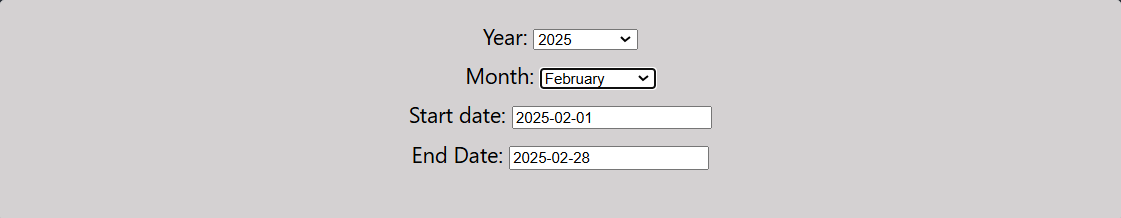
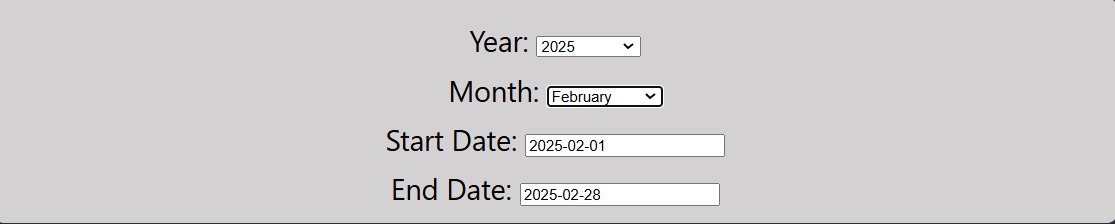
updated sample images in public

Changed region(s): [[0.3354, 0.3028, 0.6709, 0.9358], [0.0, 0.9908, 1.0, 1.0], [0.3964, 0.1101, 0.5794, 0.2752]]

diff --git a/dist/index.js b/dist/index.js
@@ -1,2 +1,2 @@
 /*! For license information please see index.js.LICENSE.txt */
-!function(e,t){"object"==typeof exports&&"object"==typeof module?module.exports=t(require("react")):"function"==typeof define&&define.amd?define(["react"],t):"object"==typeof exports?exports.DateRangeOnSelectYearMonthPicker=t(require("react")):e.DateRangeOnSelectYearMonthPicker=t(e.react)}(this,(e=>(()=>{var t={590:(e,t,r)=>{"use strict";r.d(t,{A:()=>l});var n=r(601),a=r.n(n),o=r(314),s=r.n(o)()(a());s.push([e.id,".reportInput_container{\n    background: #faf5f5d1;\n    box-sizing: border-box;\n    padding: 20px 0;\n    border-radius: 10px;\n    border: 1px solid rgb(211, 211, 211);\n    margin: 20px;\n    height: 200px;\n    width: 1000px; \n  }\n  \n  .mt{\n    margin-top: 10px;\n  }",""]);const l=s},314:e=>{"use strict";e.exports=function(e){var t=[];return t.toString=function(){return this.map((function(t){var r="",n=void 0!==t[5];return t[4]&&(r+="@supports (".concat(t[4],") {")),t[2]&&(r+="@media ".concat(t[2]," {")),n&&(r+="@layer".concat(t[5].length>0?" ".concat(t[5]):""," {")),r+=e(t),n&&(r+="}"),t[2]&&(r+="}"),t[4]&&(r+="}"),r})).join("")},t.i=function(e,r,n,a,o){"string"==typeof e&&(e=[[null,e,void 0]]);var s={};if(n)for(var l=0;l<this.length;l++){var c=this[l][0];null!=c&&(s[c]=!0)}for(var i=0;i<e.length;i++){var u=[].concat(e[i]);n&&s[u[0]]||(void 0!==o&&(void 0===u[5]||(u[1]="@layer".concat(u[5].length>0?" ".concat(u[5]):""," {").concat(u[1],"}")),u[5]=o),r&&(u[2]?(u[1]="@media ".concat(u[2]," {").concat(u[1],"}"),u[2]=r):u[2]=r),a&&(u[4]?(u[1]="@supports (".concat(u[4],") {").concat(u[1],"}"),u[4]=a):u[4]="".concat(a)),t.push(u))}},t}},601:e=>{"use strict";e.exports=function(e){return e[1]}},694:(e,t,r)=>{"use strict";var n=r(925);function a(){}function o(){}o.resetWarningCache=a,e.exports=function(){function e(e,t,r,a,o,s){if(s!==n){var l=new Error("Calling PropTypes validators directly is not supported by the `prop-types` package. Use PropTypes.checkPropTypes() to call them. Read more at http://fb.me/use-check-prop-types");throw l.name="Invariant Violation",l}}function t(){return e}e.isRequired=e;var r={array:e,bigint:e,bool:e,func:e,number:e,object:e,string:e,symbol:e,any:e,arrayOf:t,element:e,elementType:e,instanceOf:t,node:e,objectOf:t,oneOf:t,oneOfType:t,shape:t,exact:t,checkPropTypes:o,resetWarningCache:a};return r.PropTypes=r,r}},556:(e,t,r)=>{e.exports=r(694)()},925:e=>{"use strict";e.exports="SECRET_DO_NOT_PASS_THIS_OR_YOU_WILL_BE_FIRED"},20:(e,t,r)=>{"use strict";var n=r(155),a=Symbol.for("react.element"),o=Symbol.for("react.fragment"),s=Object.prototype.hasOwnProperty,l=n.__SECRET_INTERNALS_DO_NOT_USE_OR_YOU_WILL_BE_FIRED.ReactCurrentOwner,c={key:!0,ref:!0,__self:!0,__source:!0};function i(e,t,r){var n,o={},i=null,u=null;for(n in void 0!==r&&(i=""+r),void 0!==t.key&&(i=""+t.key),void 0!==t.ref&&(u=t.ref),t)s.call(t,n)&&!c.hasOwnProperty(n)&&(o[n]=t[n]);if(e&&e.defaultProps)for(n in t=e.defaultProps)void 0===o[n]&&(o[n]=t[n]);return{$$typeof:a,type:e,key:i,ref:u,props:o,_owner:l.current}}t.Fragment=o,t.jsx=i,t.jsxs=i},848:(e,t,r)=>{"use strict";e.exports=r(20)},72:e=>{"use strict";var t=[];function r(e){for(var r=-1,n=0;n<t.length;n++)if(t[n].identifier===e){r=n;break}return r}function n(e,n){for(var o={},s=[],l=0;l<e.length;l++){var c=e[l],i=n.base?c[0]+n.base:c[0],u=o[i]||0,d="".concat(i," ").concat(u);o[i]=u+1;var p=r(d),f={css:c[1],media:c[2],sourceMap:c[3],supports:c[4],layer:c[5]};if(-1!==p)t[p].references++,t[p].updater(f);else{var m=a(f,n);n.byIndex=l,t.splice(l,0,{identifier:d,updater:m,references:1})}s.push(d)}return s}function a(e,t){var r=t.domAPI(t);return r.update(e),function(t){if(t){if(t.css===e.css&&t.media===e.media&&t.sourceMap===e.sourceMap&&t.supports===e.supports&&t.layer===e.layer)return;r.update(e=t)}else r.remove()}}e.exports=function(e,a){var o=n(e=e||[],a=a||{});return function(e){e=e||[];for(var s=0;s<o.length;s++){var l=r(o[s]);t[l].references--}for(var c=n(e,a),i=0;i<o.length;i++){var u=r(o[i]);0===t[u].references&&(t[u].updater(),t.splice(u,1))}o=c}}},659:e=>{"use strict";var t={};e.exports=function(e,r){var n=function(e){if(void 0===t[e]){var r=document.querySelector(e);if(window.HTMLIFrameElement&&r instanceof window.HTMLIFrameElement)try{r=r.contentDocument.head}catch(e){r=null}t[e]=r}return t[e]}(e);if(!n)throw new Error("Couldn't find a style target. This probably means that the value for the 'insert' parameter is invalid.");n.appendChild(r)}},540:e=>{"use strict";e.exports=function(e){var t=document.createElement("style");return e.setAttributes(t,e.attributes),e.insert(t,e.options),t}},56:(e,t,r)=>{"use strict";e.exports=function(e){var t=r.nc;t&&e.setAttribute("nonce",t)}},825:e=>{"use strict";e.exports=function(e){if("undefined"==typeof document)return{update:function(){},remove:function(){}};var t=e.insertStyleElement(e);return{update:function(r){!function(e,t,r){var n="";r.supports&&(n+="@supports (".concat(r.supports,") {")),r.media&&(n+="@media ".concat(r.media," {"));var a=void 0!==r.layer;a&&(n+="@layer".concat(r.layer.length>0?" ".concat(r.layer):""," {")),n+=r.css,a&&(n+="}"),r.media&&(n+="}"),r.supports&&(n+="}");var o=r.sourceMap;o&&"undefined"!=typeof btoa&&(n+="\n/*# sourceMappingURL=data:application/json;base64,".concat(btoa(unescape(encodeURIComponent(JSON.stringify(o))))," */")),t.styleTagTransform(n,e,t.options)}(t,e,r)},remove:function(){!function(e){if(null===e.parentNode)return!1;e.parentNode.removeChild(e)}(t)}}}},113:e=>{"use strict";e.exports=function(e,t){if(t.styleSheet)t.styleSheet.cssText=e;else{for(;t.firstChild;)t.removeChild(t.firstChild);t.appendChild(document.createTextNode(e))}}},771:e=>{"use strict";e.exports=function(){}},155:t=>{"use strict";t.exports=e},942:(e,t)=>{var r;!function(){"use strict";var n={}.hasOwnProperty;function a(){for(var e="",t=0;t<arguments.length;t++){var r=arguments[t];r&&(e=s(e,o(r)))}return e}function o(e){if("string"==typeof e||"number"==typeof e)return e;if("object"!=typeof e)return"";if(Array.isArray(e))return a.apply(null,e);if(e.toString!==Object.prototype.toString&&!e.toString.toString().includes("[native code]"))return e.toString();var t="";for(var r in e)n.call(e,r)&&e[r]&&(t=s(t,r));return t}function s(e,t){return t?e?e+" "+t:e+t:e}e.exports?(a.default=a,e.exports=a):void 0===(r=function(){return a}.apply(t,[]))||(e.exports=r)}()}},r={};function n(e){var a=r[e];if(void 0!==a)return a.exports;var o=r[e]={id:e,exports:{}};return t[e](o,o.exports,n),o.exports}n.n=e=>{var t=e&&e.__esModule?()=>e.default:()=>e;return n.d(t,{a:t}),t},n.d=(e,t)=>{for(var r in t)n.o(t,r)&&!n.o(e,r)&&Object.defineProperty(e,r,{enumerable:!0,get:t[r]})},n.o=(e,t)=>Object.prototype.hasOwnProperty.call(e,t),n.r=e=>{"undefined"!=typeof Symbol&&Symbol.toStringTag&&Object.defineProperty(e,Symbol.toStringTag,{value:"Module"}),Object.defineProperty(e,"__esModule",{value:!0})},n.nc=void 0;var a={};return(()=>{"use strict";n.r(a),n.d(a,{default:()=>se});var e=n(155),t=n.n(e),r=n(942),o=n.n(r),s=n(556),l=n.n(s),c=n(848);const i={type:l().string,tooltip:l().bool,as:l().elementType},u=e.forwardRef((({as:e="div",className:t,type:r="valid",tooltip:n=!1,...a},s)=>(0,c.jsx)(e,{...a,ref:s,className:o()(t,`${r}-${n?"tooltip":"feedback"}`)})));u.displayName="Feedback",u.propTypes=i;const d=u,p=e.createContext({}),f=e.createContext({prefixes:{},breakpoints:["xxl","xl","lg","md","sm","xs"],minBreakpoint:"xs"}),{Consumer:m,Provider:v}=f;function y(t,r){const{prefixes:n}=(0,e.useContext)(f);return t||n[r]||r}const b=e.forwardRef((({id:t,bsPrefix:r,className:n,type:a="checkbox",isValid:s=!1,isInvalid:l=!1,as:i="input",...u},d)=>{const{controlId:f}=(0,e.useContext)(p);return r=y(r,"form-check-input"),(0,c.jsx)(i,{...u,ref:d,type:a,id:t||f,className:o()(n,r,s&&"is-valid",l&&"is-invalid")})}));b.displayName="FormCheckInput";const x=b,h=e.forwardRef((({bsPrefix:t,className:r,htmlFor:n,...a},s)=>{const{controlId:l}=(0,e.useContext)(p);return t=y(t,"form-check-label"),(0,c.jsx)("label",{...a,ref:s,htmlFor:n||l,className:o()(r,t)})}));h.displayName="FormCheckLabel";const g=h,N=e.forwardRef((({id:t,bsPrefix:r,bsSwitchPrefix:n,inline:a=!1,reverse:s=!1,disabled:l=!1,isValid:i=!1,isInvalid:u=!1,feedbackTooltip:f=!1,feedback:m,feedbackType:v,className:b,style:h,title:N="",type:j="checkbox",label:S,children:E,as:w="input",...I},C)=>{r=y(r,"form-check"),n=y(n,"form-switch");const{controlId:O}=(0,e.useContext)(p),P=(0,e.useMemo)((()=>({controlId:t||O})),[O,t]),k=!E&&null!=S&&!1!==S||function(t,r){return e.Children.toArray(t).some((t=>e.isValidElement(t)&&t.type===r))}(E,g),F=(0,c.jsx)(x,{...I,type:"switch"===j?"checkbox":j,ref:C,isValid:i,isInvalid:u,disabled:l,as:w});return(0,c.jsx)(p.Provider,{value:P,children:(0,c.jsx)("div",{style:h,className:o()(b,k&&r,a&&`${r}-inline`,s&&`${r}-reverse`,"switch"===j&&n),children:E||(0,c.jsxs)(c.Fragment,{children:[F,k&&(0,c.jsx)(g,{title:N,children:S}),m&&(0,c.jsx)(d,{type:v,tooltip:f,children:m})]})})})}));N.displayName="FormCheck";const j=Object.assign(N,{Input:x,Label:g});n(771);const S=e.forwardRef((({bsPrefix:t,type:r,size:n,htmlSize:a,id:s,className:l,isValid:i=!1,isInvalid:u=!1,plaintext:d,readOnly:f,as:m="input",...v},b)=>{const{controlId:x}=(0,e.useContext)(p);return t=y(t,"form-control"),(0,c.jsx)(m,{...v,type:r,size:a,ref:b,readOnly:f,id:s||x,className:o()(l,d?`${t}-plaintext`:t,n&&`${t}-${n}`,"color"===r&&`${t}-color`,i&&"is-valid",u&&"is-invalid")})}));S.displayName="FormControl";const E=Object.assign(S,{Feedback:d}),w=e.forwardRef((({className:e,bsPrefix:t,as:r="div",...n},a)=>(t=y(t,"form-floating"),(0,c.jsx)(r,{ref:a,className:o()(e,t),...n}))));w.displayName="FormFloating";const I=w,C=e.forwardRef((({controlId:t,as:r="div",...n},a)=>{const o=(0,e.useMemo)((()=>({controlId:t})),[t]);return(0,c.jsx)(p.Provider,{value:o,children:(0,c.jsx)(r,{...n,ref:a})})}));C.displayName="FormGroup";const O=C;const P=e.forwardRef(((t,r)=>{const[{className:n,...a},{as:s="div",bsPrefix:l,spans:i}]=function({as:t,bsPrefix:r,className:n,...a}){r=y(r,"col");const s=function(){const{breakpoints:t}=(0,e.useContext)(f);return t}(),l=function(){const{minBreakpoint:t}=(0,e.useContext)(f);return t}(),c=[],i=[];return s.forEach((e=>{const t=a[e];let n,o,s;delete a[e],"object"==typeof t&&null!=t?({span:n,offset:o,order:s}=t):n=t;const u=e!==l?`-${e}`:"";n&&c.push(!0===n?`${r}${u}`:`${r}${u}-${n}`),null!=s&&i.push(`order${u}-${s}`),null!=o&&i.push(`offset${u}-${o}`)})),[{...a,className:o()(n,...c,...i)},{as:t,bsPrefix:r,spans:c}]}(t);return(0,c.jsx)(s,{...a,ref:r,className:o()(n,!i.length&&l)})}));P.displayName="Col";const k=P,F=e.forwardRef((({as:t="label",bsPrefix:r,column:n=!1,visuallyHidden:a=!1,className:s,htmlFor:l,...i},u)=>{const{controlId:d}=(0,e.useContext)(p);r=y(r,"form-label");let f="col-form-label";"string"==typeof n&&(f=`${f} ${f}-${n}`);const m=o()(s,r,a&&"visually-hidden",n&&f);return l=l||d,n?(0,c.jsx)(k,{ref:u,as:"label",className:m,htmlFor:l,...i}):(0,c.jsx)(t,{ref:u,className:m,htmlFor:l,...i})}));F.displayName="FormLabel";const T=F,_=e.forwardRef((({bsPrefix:t,className:r,id:n,...a},s)=>{const{controlId:l}=(0,e.useContext)(p);return t=y(t,"form-range"),(0,c.jsx)("input",{...a,type:"range",ref:s,className:o()(r,t),id:n||l})}));_.displayName="FormRange";const R=_,$=e.forwardRef((({bsPrefix:t,size:r,htmlSize:n,className:a,isValid:s=!1,isInvalid:l=!1,id:i,...u},d)=>{const{controlId:f}=(0,e.useContext)(p);return t=y(t,"form-select"),(0,c.jsx)("select",{...u,size:n,ref:d,className:o()(a,t,r&&`${t}-${r}`,s&&"is-valid",l&&"is-invalid"),id:i||f})}));$.displayName="FormSelect";const M=$,A=e.forwardRef((({bsPrefix:e,className:t,as:r="small",muted:n,...a},s)=>(e=y(e,"form-text"),(0,c.jsx)(r,{...a,ref:s,className:o()(t,e,n&&"text-muted")}))));A.displayName="FormText";const D=A,L=e.forwardRef(((e,t)=>(0,c.jsx)(j,{...e,ref:t,type:"switch"})));L.displayName="Switch";const z=Object.assign(L,{Input:j.Input,Label:j.Label}),V=e.forwardRef((({bsPrefix:e,className:t,children:r,controlId:n,label:a,...s},l)=>(e=y(e,"form-floating"),(0,c.jsxs)(O,{ref:l,className:o()(t,e),controlId:n,...s,children:[r,(0,c.jsx)("label",{htmlFor:n,children:a})]}))));V.displayName="FloatingLabel";const Y=V,U={_ref:l().any,validated:l().bool,as:l().elementType},q=e.forwardRef((({className:e,validated:t,as:r="form",...n},a)=>(0,c.jsx)(r,{...n,ref:a,className:o()(e,t&&"was-validated")})));q.displayName="Form",q.propTypes=U;const B=Object.assign(q,{Group:O,Control:E,Floating:I,Check:j,Switch:z,Label:T,Text:D,Range:R,Select:M,FloatingLabel:Y});var H=n(72),J=n.n(H),W=n(825),G=n.n(W),K=n(659),Q=n.n(K),X=n(56),Z=n.n(X),ee=n(540),te=n.n(ee),re=n(113),ne=n.n(re),ae=n(590),oe={};oe.styleTagTransform=ne(),oe.setAttributes=Z(),oe.insert=Q().bind(null,"head"),oe.domAPI=G(),oe.insertStyleElement=te(),J()(ae.A,oe),ae.A&&ae.A.locals&&ae.A.locals;const se=({onDateChange:r})=>{const[n,a]=(0,e.useState)(""),[o,s]=(0,e.useState)(""),[l,c]=(0,e.useState)(""),[i,u]=(0,e.useState)(""),d=(0,e.useMemo)((()=>{const e=(new Date).getFullYear();return Array.from({length:e-2014},((t,r)=>e-r))}),[]);return t().createElement(t().Fragment,null,t().createElement("div",null,t().createElement("section",{className:"reportInput_container"},t().createElement("div",{className:"row"},t().createElement("div",{className:"col-md-3 col-lg-3 col-sm-12"},t().createElement("label",null," Year: "),t().createElement(B.Select,{size:"lg",name:"userId",onChange:e=>{a(e.target.value),s(""),c(""),u(""),r("","")}},t().createElement("option",{value:""},"Select Year"),d?.map((e=>t().createElement("option",{key:e,value:e},e))))),n&&t().createElement(t().Fragment,null,t().createElement("div",{className:"col-md-3 col-lg-3 col-sm-12 mt"},t().createElement("label",null,"Month: "),t().createElement(B.Select,{size:"lg",name:"userId",value:o,onChange:e=>{if(!n)return;const t=e.target.value;s(t);const{startDate:a,endDate:o}=function(e,t){const r=`${e}-${{jan:"01",feb:"02",mar:"03",apr:"04",may:"05",jun:"06",jul:"07",aug:"08",sep:"09",oct:"10",nov:"11",dec:"12"}[t]}-01`;return{startDate:r,endDate:(e=>{const t=new Date(e);return t.setMonth(t.getMonth()+1),t.setDate(0),t.toISOString().split("T")[0]})(r)}}(n,t);c(a),u(o),r(a,o)}},t().createElement("option",{value:""},"Select Month"),[{value:"jan",name:"January"},{value:"feb",name:"February"},{value:"mar",name:"March"},{value:"apr",name:"April"},{value:"may",name:"May"},{value:"jun",name:"June"},{value:"jul",name:"July"},{value:"aug",name:"August"},{value:"sep",name:"September"},{value:"oct",name:"October"},{value:"nov",name:"November"},{value:"dec",name:"December"}]?.map((e=>t().createElement("option",{key:e.value,value:e?.value},e?.name))))),n&&o&&t().createElement(t().Fragment,null,t().createElement("div",{className:"col-md-3 col-lg-3 col-sm-12 mt-4 mt"},t().createElement("label",null," Start date: "),t().createElement("input",{type:"text",name:"startdate",className:"form-control",value:l,readOnly:!0})),t().createElement("div",{className:"col-md-3 col-lg-3 col-sm-12 mt"},t().createElement("label",null," End Date: "),t().createElement("input",{type:"text",name:"enddate",className:"form-control",value:i,readOnly:!0}))))))))}})(),a})()));
+!function(e,t){"object"==typeof exports&&"object"==typeof module?module.exports=t(require("react")):"function"==typeof define&&define.amd?define(["react"],t):"object"==typeof exports?exports.DateRangeOnSelectYearMonthPicker=t(require("react")):e.DateRangeOnSelectYearMonthPicker=t(e.react)}(this,(e=>(()=>{var t={590:(e,t,r)=>{"use strict";r.d(t,{A:()=>l});var n=r(601),a=r.n(n),o=r(314),s=r.n(o)()(a());s.push([e.id,".reportInput_container{\n    background: #faf5f5d1;\n    box-sizing: border-box;\n    padding: 20px 0;\n    border-radius: 10px;\n    border: 1px solid rgb(211, 211, 211);\n    margin: 20px;\n    height: 200px;\n    width: 1000px; \n  }\n  \n  .mt{\n    margin-top: 10px;\n  }",""]);const l=s},314:e=>{"use strict";e.exports=function(e){var t=[];return t.toString=function(){return this.map((function(t){var r="",n=void 0!==t[5];return t[4]&&(r+="@supports (".concat(t[4],") {")),t[2]&&(r+="@media ".concat(t[2]," {")),n&&(r+="@layer".concat(t[5].length>0?" ".concat(t[5]):""," {")),r+=e(t),n&&(r+="}"),t[2]&&(r+="}"),t[4]&&(r+="}"),r})).join("")},t.i=function(e,r,n,a,o){"string"==typeof e&&(e=[[null,e,void 0]]);var s={};if(n)for(var l=0;l<this.length;l++){var c=this[l][0];null!=c&&(s[c]=!0)}for(var i=0;i<e.length;i++){var u=[].concat(e[i]);n&&s[u[0]]||(void 0!==o&&(void 0===u[5]||(u[1]="@layer".concat(u[5].length>0?" ".concat(u[5]):""," {").concat(u[1],"}")),u[5]=o),r&&(u[2]?(u[1]="@media ".concat(u[2]," {").concat(u[1],"}"),u[2]=r):u[2]=r),a&&(u[4]?(u[1]="@supports (".concat(u[4],") {").concat(u[1],"}"),u[4]=a):u[4]="".concat(a)),t.push(u))}},t}},601:e=>{"use strict";e.exports=function(e){return e[1]}},694:(e,t,r)=>{"use strict";var n=r(925);function a(){}function o(){}o.resetWarningCache=a,e.exports=function(){function e(e,t,r,a,o,s){if(s!==n){var l=new Error("Calling PropTypes validators directly is not supported by the `prop-types` package. Use PropTypes.checkPropTypes() to call them. Read more at http://fb.me/use-check-prop-types");throw l.name="Invariant Violation",l}}function t(){return e}e.isRequired=e;var r={array:e,bigint:e,bool:e,func:e,number:e,object:e,string:e,symbol:e,any:e,arrayOf:t,element:e,elementType:e,instanceOf:t,node:e,objectOf:t,oneOf:t,oneOfType:t,shape:t,exact:t,checkPropTypes:o,resetWarningCache:a};return r.PropTypes=r,r}},556:(e,t,r)=>{e.exports=r(694)()},925:e=>{"use strict";e.exports="SECRET_DO_NOT_PASS_THIS_OR_YOU_WILL_BE_FIRED"},20:(e,t,r)=>{"use strict";var n=r(155),a=Symbol.for("react.element"),o=Symbol.for("react.fragment"),s=Object.prototype.hasOwnProperty,l=n.__SECRET_INTERNALS_DO_NOT_USE_OR_YOU_WILL_BE_FIRED.ReactCurrentOwner,c={key:!0,ref:!0,__self:!0,__source:!0};function i(e,t,r){var n,o={},i=null,u=null;for(n in void 0!==r&&(i=""+r),void 0!==t.key&&(i=""+t.key),void 0!==t.ref&&(u=t.ref),t)s.call(t,n)&&!c.hasOwnProperty(n)&&(o[n]=t[n]);if(e&&e.defaultProps)for(n in t=e.defaultProps)void 0===o[n]&&(o[n]=t[n]);return{$$typeof:a,type:e,key:i,ref:u,props:o,_owner:l.current}}t.Fragment=o,t.jsx=i,t.jsxs=i},848:(e,t,r)=>{"use strict";e.exports=r(20)},72:e=>{"use strict";var t=[];function r(e){for(var r=-1,n=0;n<t.length;n++)if(t[n].identifier===e){r=n;break}return r}function n(e,n){for(var o={},s=[],l=0;l<e.length;l++){var c=e[l],i=n.base?c[0]+n.base:c[0],u=o[i]||0,d="".concat(i," ").concat(u);o[i]=u+1;var p=r(d),f={css:c[1],media:c[2],sourceMap:c[3],supports:c[4],layer:c[5]};if(-1!==p)t[p].references++,t[p].updater(f);else{var m=a(f,n);n.byIndex=l,t.splice(l,0,{identifier:d,updater:m,references:1})}s.push(d)}return s}function a(e,t){var r=t.domAPI(t);return r.update(e),function(t){if(t){if(t.css===e.css&&t.media===e.media&&t.sourceMap===e.sourceMap&&t.supports===e.supports&&t.layer===e.layer)return;r.update(e=t)}else r.remove()}}e.exports=function(e,a){var o=n(e=e||[],a=a||{});return function(e){e=e||[];for(var s=0;s<o.length;s++){var l=r(o[s]);t[l].references--}for(var c=n(e,a),i=0;i<o.length;i++){var u=r(o[i]);0===t[u].references&&(t[u].updater(),t.splice(u,1))}o=c}}},659:e=>{"use strict";var t={};e.exports=function(e,r){var n=function(e){if(void 0===t[e]){var r=document.querySelector(e);if(window.HTMLIFrameElement&&r instanceof window.HTMLIFrameElement)try{r=r.contentDocument.head}catch(e){r=null}t[e]=r}return t[e]}(e);if(!n)throw new Error("Couldn't find a style target. This probably means that the value for the 'insert' parameter is invalid.");n.appendChild(r)}},540:e=>{"use strict";e.exports=function(e){var t=document.createElement("style");return e.setAttributes(t,e.attributes),e.insert(t,e.options),t}},56:(e,t,r)=>{"use strict";e.exports=function(e){var t=r.nc;t&&e.setAttribute("nonce",t)}},825:e=>{"use strict";e.exports=function(e){if("undefined"==typeof document)return{update:function(){},remove:function(){}};var t=e.insertStyleElement(e);return{update:function(r){!function(e,t,r){var n="";r.supports&&(n+="@supports (".concat(r.supports,") {")),r.media&&(n+="@media ".concat(r.media," {"));var a=void 0!==r.layer;a&&(n+="@layer".concat(r.layer.length>0?" ".concat(r.layer):""," {")),n+=r.css,a&&(n+="}"),r.media&&(n+="}"),r.supports&&(n+="}");var o=r.sourceMap;o&&"undefined"!=typeof btoa&&(n+="\n/*# sourceMappingURL=data:application/json;base64,".concat(btoa(unescape(encodeURIComponent(JSON.stringify(o))))," */")),t.styleTagTransform(n,e,t.options)}(t,e,r)},remove:function(){!function(e){if(null===e.parentNode)return!1;e.parentNode.removeChild(e)}(t)}}}},113:e=>{"use strict";e.exports=function(e,t){if(t.styleSheet)t.styleSheet.cssText=e;else{for(;t.firstChild;)t.removeChild(t.firstChild);t.appendChild(document.createTextNode(e))}}},771:e=>{"use strict";e.exports=function(){}},155:t=>{"use strict";t.exports=e},942:(e,t)=>{var r;!function(){"use strict";var n={}.hasOwnProperty;function a(){for(var e="",t=0;t<arguments.length;t++){var r=arguments[t];r&&(e=s(e,o(r)))}return e}function o(e){if("string"==typeof e||"number"==typeof e)return e;if("object"!=typeof e)return"";if(Array.isArray(e))return a.apply(null,e);if(e.toString!==Object.prototype.toString&&!e.toString.toString().includes("[native code]"))return e.toString();var t="";for(var r in e)n.call(e,r)&&e[r]&&(t=s(t,r));return t}function s(e,t){return t?e?e+" "+t:e+t:e}e.exports?(a.default=a,e.exports=a):void 0===(r=function(){return a}.apply(t,[]))||(e.exports=r)}()}},r={};function n(e){var a=r[e];if(void 0!==a)return a.exports;var o=r[e]={id:e,exports:{}};return t[e](o,o.exports,n),o.exports}n.n=e=>{var t=e&&e.__esModule?()=>e.default:()=>e;return n.d(t,{a:t}),t},n.d=(e,t)=>{for(var r in t)n.o(t,r)&&!n.o(e,r)&&Object.defineProperty(e,r,{enumerable:!0,get:t[r]})},n.o=(e,t)=>Object.prototype.hasOwnProperty.call(e,t),n.r=e=>{"undefined"!=typeof Symbol&&Symbol.toStringTag&&Object.defineProperty(e,Symbol.toStringTag,{value:"Module"}),Object.defineProperty(e,"__esModule",{value:!0})},n.nc=void 0;var a={};return(()=>{"use strict";n.r(a),n.d(a,{default:()=>se});var e=n(155),t=n.n(e),r=n(942),o=n.n(r),s=n(556),l=n.n(s),c=n(848);const i={type:l().string,tooltip:l().bool,as:l().elementType},u=e.forwardRef((({as:e="div",className:t,type:r="valid",tooltip:n=!1,...a},s)=>(0,c.jsx)(e,{...a,ref:s,className:o()(t,`${r}-${n?"tooltip":"feedback"}`)})));u.displayName="Feedback",u.propTypes=i;const d=u,p=e.createContext({}),f=e.createContext({prefixes:{},breakpoints:["xxl","xl","lg","md","sm","xs"],minBreakpoint:"xs"}),{Consumer:m,Provider:v}=f;function y(t,r){const{prefixes:n}=(0,e.useContext)(f);return t||n[r]||r}const b=e.forwardRef((({id:t,bsPrefix:r,className:n,type:a="checkbox",isValid:s=!1,isInvalid:l=!1,as:i="input",...u},d)=>{const{controlId:f}=(0,e.useContext)(p);return r=y(r,"form-check-input"),(0,c.jsx)(i,{...u,ref:d,type:a,id:t||f,className:o()(n,r,s&&"is-valid",l&&"is-invalid")})}));b.displayName="FormCheckInput";const x=b,h=e.forwardRef((({bsPrefix:t,className:r,htmlFor:n,...a},s)=>{const{controlId:l}=(0,e.useContext)(p);return t=y(t,"form-check-label"),(0,c.jsx)("label",{...a,ref:s,htmlFor:n||l,className:o()(r,t)})}));h.displayName="FormCheckLabel";const g=h,N=e.forwardRef((({id:t,bsPrefix:r,bsSwitchPrefix:n,inline:a=!1,reverse:s=!1,disabled:l=!1,isValid:i=!1,isInvalid:u=!1,feedbackTooltip:f=!1,feedback:m,feedbackType:v,className:b,style:h,title:N="",type:j="checkbox",label:S,children:E,as:w="input",...I},C)=>{r=y(r,"form-check"),n=y(n,"form-switch");const{controlId:O}=(0,e.useContext)(p),P=(0,e.useMemo)((()=>({controlId:t||O})),[O,t]),k=!E&&null!=S&&!1!==S||function(t,r){return e.Children.toArray(t).some((t=>e.isValidElement(t)&&t.type===r))}(E,g),F=(0,c.jsx)(x,{...I,type:"switch"===j?"checkbox":j,ref:C,isValid:i,isInvalid:u,disabled:l,as:w});return(0,c.jsx)(p.Provider,{value:P,children:(0,c.jsx)("div",{style:h,className:o()(b,k&&r,a&&`${r}-inline`,s&&`${r}-reverse`,"switch"===j&&n),children:E||(0,c.jsxs)(c.Fragment,{children:[F,k&&(0,c.jsx)(g,{title:N,children:S}),m&&(0,c.jsx)(d,{type:v,tooltip:f,children:m})]})})})}));N.displayName="FormCheck";const j=Object.assign(N,{Input:x,Label:g});n(771);const S=e.forwardRef((({bsPrefix:t,type:r,size:n,htmlSize:a,id:s,className:l,isValid:i=!1,isInvalid:u=!1,plaintext:d,readOnly:f,as:m="input",...v},b)=>{const{controlId:x}=(0,e.useContext)(p);return t=y(t,"form-control"),(0,c.jsx)(m,{...v,type:r,size:a,ref:b,readOnly:f,id:s||x,className:o()(l,d?`${t}-plaintext`:t,n&&`${t}-${n}`,"color"===r&&`${t}-color`,i&&"is-valid",u&&"is-invalid")})}));S.displayName="FormControl";const E=Object.assign(S,{Feedback:d}),w=e.forwardRef((({className:e,bsPrefix:t,as:r="div",...n},a)=>(t=y(t,"form-floating"),(0,c.jsx)(r,{ref:a,className:o()(e,t),...n}))));w.displayName="FormFloating";const I=w,C=e.forwardRef((({controlId:t,as:r="div",...n},a)=>{const o=(0,e.useMemo)((()=>({controlId:t})),[t]);return(0,c.jsx)(p.Provider,{value:o,children:(0,c.jsx)(r,{...n,ref:a})})}));C.displayName="FormGroup";const O=C;const P=e.forwardRef(((t,r)=>{const[{className:n,...a},{as:s="div",bsPrefix:l,spans:i}]=function({as:t,bsPrefix:r,className:n,...a}){r=y(r,"col");const s=function(){const{breakpoints:t}=(0,e.useContext)(f);return t}(),l=function(){const{minBreakpoint:t}=(0,e.useContext)(f);return t}(),c=[],i=[];return s.forEach((e=>{const t=a[e];let n,o,s;delete a[e],"object"==typeof t&&null!=t?({span:n,offset:o,order:s}=t):n=t;const u=e!==l?`-${e}`:"";n&&c.push(!0===n?`${r}${u}`:`${r}${u}-${n}`),null!=s&&i.push(`order${u}-${s}`),null!=o&&i.push(`offset${u}-${o}`)})),[{...a,className:o()(n,...c,...i)},{as:t,bsPrefix:r,spans:c}]}(t);return(0,c.jsx)(s,{...a,ref:r,className:o()(n,!i.length&&l)})}));P.displayName="Col";const k=P,F=e.forwardRef((({as:t="label",bsPrefix:r,column:n=!1,visuallyHidden:a=!1,className:s,htmlFor:l,...i},u)=>{const{controlId:d}=(0,e.useContext)(p);r=y(r,"form-label");let f="col-form-label";"string"==typeof n&&(f=`${f} ${f}-${n}`);const m=o()(s,r,a&&"visually-hidden",n&&f);return l=l||d,n?(0,c.jsx)(k,{ref:u,as:"label",className:m,htmlFor:l,...i}):(0,c.jsx)(t,{ref:u,className:m,htmlFor:l,...i})}));F.displayName="FormLabel";const T=F,_=e.forwardRef((({bsPrefix:t,className:r,id:n,...a},s)=>{const{controlId:l}=(0,e.useContext)(p);return t=y(t,"form-range"),(0,c.jsx)("input",{...a,type:"range",ref:s,className:o()(r,t),id:n||l})}));_.displayName="FormRange";const R=_,$=e.forwardRef((({bsPrefix:t,size:r,htmlSize:n,className:a,isValid:s=!1,isInvalid:l=!1,id:i,...u},d)=>{const{controlId:f}=(0,e.useContext)(p);return t=y(t,"form-select"),(0,c.jsx)("select",{...u,size:n,ref:d,className:o()(a,t,r&&`${t}-${r}`,s&&"is-valid",l&&"is-invalid"),id:i||f})}));$.displayName="FormSelect";const M=$,A=e.forwardRef((({bsPrefix:e,className:t,as:r="small",muted:n,...a},s)=>(e=y(e,"form-text"),(0,c.jsx)(r,{...a,ref:s,className:o()(t,e,n&&"text-muted")}))));A.displayName="FormText";const D=A,L=e.forwardRef(((e,t)=>(0,c.jsx)(j,{...e,ref:t,type:"switch"})));L.displayName="Switch";const z=Object.assign(L,{Input:j.Input,Label:j.Label}),V=e.forwardRef((({bsPrefix:e,className:t,children:r,controlId:n,label:a,...s},l)=>(e=y(e,"form-floating"),(0,c.jsxs)(O,{ref:l,className:o()(t,e),controlId:n,...s,children:[r,(0,c.jsx)("label",{htmlFor:n,children:a})]}))));V.displayName="FloatingLabel";const Y=V,U={_ref:l().any,validated:l().bool,as:l().elementType},q=e.forwardRef((({className:e,validated:t,as:r="form",...n},a)=>(0,c.jsx)(r,{...n,ref:a,className:o()(e,t&&"was-validated")})));q.displayName="Form",q.propTypes=U;const B=Object.assign(q,{Group:O,Control:E,Floating:I,Check:j,Switch:z,Label:T,Text:D,Range:R,Select:M,FloatingLabel:Y});var H=n(72),J=n.n(H),W=n(825),G=n.n(W),K=n(659),Q=n.n(K),X=n(56),Z=n.n(X),ee=n(540),te=n.n(ee),re=n(113),ne=n.n(re),ae=n(590),oe={};oe.styleTagTransform=ne(),oe.setAttributes=Z(),oe.insert=Q().bind(null,"head"),oe.domAPI=G(),oe.insertStyleElement=te(),J()(ae.A,oe),ae.A&&ae.A.locals&&ae.A.locals;const se=({onDateChange:r})=>{const[n,a]=(0,e.useState)(""),[o,s]=(0,e.useState)(""),[l,c]=(0,e.useState)(""),[i,u]=(0,e.useState)(""),d=(0,e.useMemo)((()=>{const e=(new Date).getFullYear();return Array.from({length:e-2014},((t,r)=>e-r))}),[]);return t().createElement(t().Fragment,null,t().createElement("div",null,t().createElement("section",{className:"reportInput_container"},t().createElement("div",{className:"row"},t().createElement("div",{className:"col-md-3 col-lg-3 col-sm-12"},t().createElement("label",null," Year: "),t().createElement(B.Select,{size:"lg",name:"userId",onChange:e=>{a(e.target.value),s(""),c(""),u(""),r("","")}},t().createElement("option",{value:""},"Select Year"),d?.map((e=>t().createElement("option",{key:e,value:e},e))))),n&&t().createElement(t().Fragment,null,t().createElement("div",{className:"col-md-3 col-lg-3 col-sm-12 mt"},t().createElement("label",null,"Month: "),t().createElement(B.Select,{size:"lg",name:"userId",value:o,onChange:e=>{if(!n)return;const t=e.target.value;s(t);const{startDate:a,endDate:o}=function(e,t){const r=`${e}-${{jan:"01",feb:"02",mar:"03",apr:"04",may:"05",jun:"06",jul:"07",aug:"08",sep:"09",oct:"10",nov:"11",dec:"12"}[t]}-01`;return{startDate:r,endDate:(e=>{const t=new Date(e);return t.setMonth(t.getMonth()+1),t.setDate(0),t.toISOString().split("T")[0]})(r)}}(n,t);c(a),u(o),r(a,o)}},t().createElement("option",{value:""},"Select Month"),[{value:"jan",name:"January"},{value:"feb",name:"February"},{value:"mar",name:"March"},{value:"apr",name:"April"},{value:"may",name:"May"},{value:"jun",name:"June"},{value:"jul",name:"July"},{value:"aug",name:"August"},{value:"sep",name:"September"},{value:"oct",name:"October"},{value:"nov",name:"November"},{value:"dec",name:"December"}]?.map((e=>t().createElement("option",{key:e.value,value:e?.value},e?.name))))),n&&o&&t().createElement(t().Fragment,null,t().createElement("div",{className:"col-md-3 col-lg-3 col-sm-12 mt-4 mt"},t().createElement("label",null," Start Date: "),t().createElement("input",{type:"text",name:"startdate",className:"form-control",value:l,readOnly:!0})),t().createElement("div",{className:"col-md-3 col-lg-3 col-sm-12 mt"},t().createElement("label",null," End Date: "),t().createElement("input",{type:"text",name:"enddate",className:"form-control",value:i,readOnly:!0}))))))))}})(),a})()));

diff --git a/src/DateRangeOnSelectYearMonthPicker.js b/src/DateRangeOnSelectYearMonthPicker.js
@@ -113,7 +113,7 @@ const DateRangeOnSelectYearMonthPicker = ({ onDateChange }) => {
                 {selectedYear && selectedMonth && (
                   <>
                     <div className='col-md-3 col-lg-3 col-sm-12 mt-4 mt'>
-                      <label> Start date: </label>
+                      <label> Start Date: </label>
                       <input type="text" name="startdate" className='form-control' value={startDate} readOnly />
                     </div>
 
